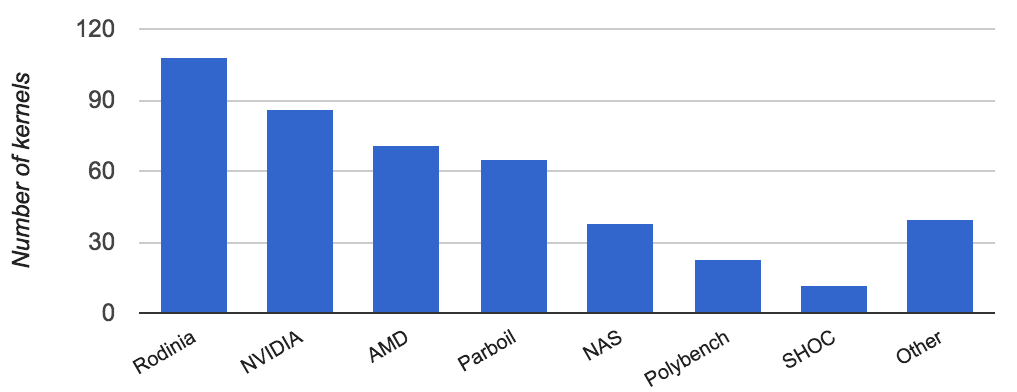
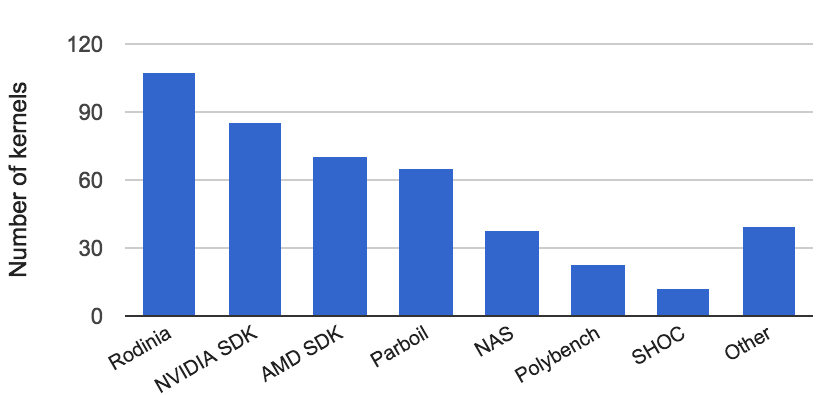
docs/smith: Yesterday's work

Changed region(s): [[0.0907, 0.0612, 0.9976, 1.0], [0.0, 0.1837, 0.0302, 0.7041], [0.0605, 0.0306, 0.1209, 0.1531]]

diff --git a/docs/wip-smith/smith.tex b/docs/wip-smith/smith.tex
@@ -73,6 +73,10 @@
 % Reduce the font size of the bibliography:
 \renewcommand{\bibfont}{\normalfont\scriptsize}
 
+% No italics in \paragraph{title} style:
+\usepackage{titlesec}
+\titleformat*{\paragraph}{\bfseries}
+
 
 %%%%%%%%%%%%%%%%%%%%%%%%%%%%%%%%%%%%%
 %% Figures, footnotes and listings %%
@@ -125,6 +129,11 @@ complex,imaginary},%
 
 \algrenewcommand\ALG@beginalgorithmic{\footnotesize}
 
+% Plots:
+\usepackage{filecontents}
+\usepackage{pgfplots, pgfplotstable}
+\usepgfplotslibrary{statistics}
+
 
 %%%%%%%%%%%%%%%%%%%%%%%%
 %% Graphics and maths %%
@@ -148,6 +157,9 @@ complex,imaginary},%
                         minimum height=4em,
                         inner sep=.2cm]
 \tikzstyle{line}     = [draw, -latex']
+
+% Smaller font:
+\pgfplotsset{every tick label/.append style={font=\scriptsize}}
 
 % Vector notation, e.g. \vv{x}:
 %
@@ -367,27 +379,47 @@ benchmarks\footnote{Anonymized raw data available at:
   \url{http://bit.ly/XXX}}. %
 Figure~\ref{fig:benchmark-quantity-distribution} shows the
 distribution of kernel quantities. The median number of kernels used
-is 14. Of those, the majority (74\%) come from four benchmark suites:
-Rodinia~\cite{Che2009}, the NVIDIA
+is 14. Of those, four benchmark suites account for 74\% of all kernels
+used: Rodinia~\cite{Che2009}, the NVIDIA
 SDK\footnote{\url{https://developer.nvidia.com/opencl/}},
 Parboil~\cite{Stratton2012}, and the AMD
 SDK\footnote{\url{http://developer.amd.com/}}. Figure~\ref{fig:benchmark-suite-distribution}
 shows the breakdown of kernel sources.
 
-\begin{figure}[t]
+\begin{figure}%[t]
   \includegraphics[width=\columnwidth]{img/benchmark-quantitiy-distribution}
+  % \begin{tikzpicture}
+  %   \tikzstyle{every node}=[font=\scriptsize]
+  %   \begin{axis}[
+  %     width=\columnwidth,
+  %     height=4cm,
+  %     ybar,
+  %     ymin=0,
+  %     xlabel={\#. benchmark kernels},
+  %     ylabel={\#. papers},
+  %     ],
+  %     \addplot +[
+  %     hist={
+  %       bins=5,
+  %       data min=0,
+  %       data max=50
+  %     }
+  %     ] table [y index=0] {data/benchmark-quantities.csv};
+  %   \end{axis}
+  % \end{tikzpicture}
   \caption{%
-    Number of benchmark kernels used in research papers. The median
-    value is 14.%
+    Number of benchmark kernels used in GPU research papers. The
+    median value is 14.%
   }
   \label{fig:benchmark-quantity-distribution}
 \end{figure}
 
-\begin{figure}[t]
+\begin{figure}%[t]
   \includegraphics[width=\columnwidth]{img/benchmark-suite-distribution}
   \caption{%
-    Origins of benchmark kernels used in research papers. The 4 most
-    frequently used benchmark suites account for 74\% of all kernels.%
+    Origins of benchmark kernels used in GPU research papers. The 4
+    most frequently used benchmark suites account for 74\% of all
+    kernels.%
   }
   \label{fig:benchmark-suite-distribution}
 \end{figure}
@@ -408,7 +440,7 @@ character-level language model.
 function prototypes, rejection sampler, program checker.
 
 
-\begin{figure*}[t]
+\begin{figure*}%[t]
   \centering
   \input{fig/structure}
   \caption{%
@@ -439,20 +471,23 @@ Minimizing non-functional variance using clang libraries and tools:
 
 Pre-processing pipeline: Implemented on
 LLVM\footnote{\url{http://llvm.org/}},
-clang\footnote{\url{http://clang.llvm.org/}}, and
-libclc\footnote{\url{http://libclc.llvm.org/}}.
+clang%\footnote{\url{http://clang.llvm.org/}}
+, and libclc%\footnote{\url{http://libclc.llvm.org/}}
+.
 
-\begin{figure}[t]
+\begin{figure}%[t]
 \includegraphics[width=\columnwidth]{img/undeclared-identifiers.png}
 \caption{%
-  Distribution of undeclared identifier errors. 1023 unique
-  identifiers. The 60 most frequent of these account for 50\% of
-  errors.%
+  Undeclared identifier occurrences in OpenCL sources.
+  % all 1023 unique identifiers in the OpenCL source codes set. The most
+  % frequently used undeclared identifier is \texttt{LOCAL\_SIZE\_LIMIT}
+  % (462 occurrences). The 60 most used identifiers account for 50\% of
+  % errors.%
 }
 \end{figure}
 
-Compile to LLVM bytecode using libclc. Through analysing 148k lines of
-compilation erros, we created a shim header to include common missing
+Compile to LLVM byte code using libclc. Through analyzing 148k lines of
+compilation errors, we created a shim header to include common missing
 things. Include shim header which adds inferred values for common
 typedefs (e.g. FLOAT\_T to float), and best guesses for common
 constants (e.g. WGSIZE). Listing~\ref{lst:shim}
@@ -464,6 +499,8 @@ be harmlessly redefined within files.
 
 \lstset{language=[OpenCL]C}
 \begin{lstlisting}[%
+  float,%
+%  floatplacement=t,%
   frame=single,%
   caption=The shim header file.
 ]
@@ -482,7 +519,6 @@ typedef unsigned int INDEX_TYPE;
 #define WG_SIZE 128
 ... (185 more)
 \end{lstlisting}
-
 
 \section{Learning the Implementation Space}\label{sec:ml}
 
@@ -505,12 +541,14 @@ Sample kernels with balanced brackets.
 
 Rejection sampler.
 
-Undefined behaviour.
+Undefined behavior.
 
 Driver program (and dataset).
 
 \lstset{language=[OpenCL]C}
 \begin{lstlisting}[%
+  float,%
+%  floatplacement=t,%
   frame=single,%
   caption=Parboil SGEMM benchmark.
 ]
@@ -532,6 +570,8 @@ __kernel void mysgemmNT( __global const float *A, int lda, __global const float 
 
 \lstset{language=[OpenCL]C}
 \begin{lstlisting}[%
+  float,%
+%  floatplacement=t,%
   frame=single,%
   caption=Transformed SGEMM implementation from preprocessing pipeline.
 ]
@@ -553,6 +593,8 @@ __kernel void A(__global const float *a, int b, __global const float *c, int d,
 
 \lstset{language=[OpenCL]C}
 \begin{lstlisting}[%
+  float,%
+%  floatplacement=t,%
   frame=single,%
   caption=Example kernel synthesised from SGEMM function prototype.
 ]
@@ -630,7 +672,7 @@ platform-specific extension).
 
 Rewrote typedefs.
 
-Limitation of system: can't use synthesise kernels with struct
+Limitation of system: can't use synthesize kernels with struct
 arguments. Ignored kernels with struct args: %
 parboil-bfs, %
 parboil-mri-q, %
@@ -638,7 +680,7 @@ rodinia-b-tree, %
 rodinia-dwt2d, %
 rodinia-heartwall, %
 rodinia-lavamd, %
-rodinia nearest neighour.
+rodinia nearest neighbor.
 
 
 \paragraph{Datasets}
@@ -696,8 +738,8 @@ autotuning~\cite{Ding2015}. Benchmark reduction~\cite{Castro2014}.
 
 \subsection{Representative Benchmarking}
 
-Designing worklaods~\cite{Eeckhout2002}. Characterisation of NAS
-Opencl~\cite{Seo2011}. Characterisation of
+Designing workloads~\cite{Eeckhout2002}. Characterization of NAS
+Opencl~\cite{Seo2011}. Characterization of
 Rodinia~\cite{Che2010,Ryoo2015}.
 
 
@@ -715,8 +757,8 @@ Csmith~\cite{Yang2012}, CLsmith~\cite{Pflanzer2016}.
 
 
 \paragraph{Goal-oriented} Generating linear
-transforms~\cite{Voronenko2009}, synthesising MapReduce
-programs~\cite{Smith}, genearting data structure
+transforms~\cite{Voronenko2009}, synthesizing MapReduce
+programs~\cite{Smith}, generating data structure
 implementations~\cite{Loncaric2016}.
 
 
@@ -727,21 +769,21 @@ Neural Networks for representing programs~\cite{Bunel}.
 Promises and perils of mining GitHub~\cite{Bird2009}.
 
 Mining source code repositories at large
-scale~\cite{Allamanis2013a,White2015a}. Machine learning for analysing
+scale~\cite{Allamanis2013a,White2015a}. Machine learning for analyzing
 code~\cite{Allamanis2014a,Raychev}. Aiding software
 engineering~\cite{Allamanis2014,Bird2015}.
 
 Previous studies have involved data mining of GitHub for analysis of
 software engineering
-practises~\cite{Wu2014,Guzman2014,Baishakhi2014a,Vasilescu2015}.
+practices~\cite{Wu2014,Guzman2014,Baishakhi2014a,Vasilescu2015}.
 
 
 \subsection{Deep Learning}
 
-This is the first application of deep learning for synthesising
+This is the first application of deep learning for synthesizing
 programs.
 
-Deep Learning has been successful for synthesising graphics
+Deep Learning has been successful for synthesizing graphics
 textures~\cite{Gatys2015a}, image captions~\cite{Vinyals}, colors for
 black and white photographs~\cite{Zhang2016}, and artistic
 style~\cite{Gatys2015}.
@@ -759,8 +801,7 @@ Future work: probabilistic grammar.
 
 This work was supported by the UK Engineering and Physical Sciences
 Research Council under grants EP/L01503X/1 (CDT in Pervasive
-Parallelism),\\* EP/H044752/1 (ALEA), and\\* EP/M015793/1 (DIVIDEND).
-
+Parallelism), EP/H044752/1 (ALEA), and EP/M015793/1 (DIVIDEND).
 
 \label{bibliography}
 \printbibliography
